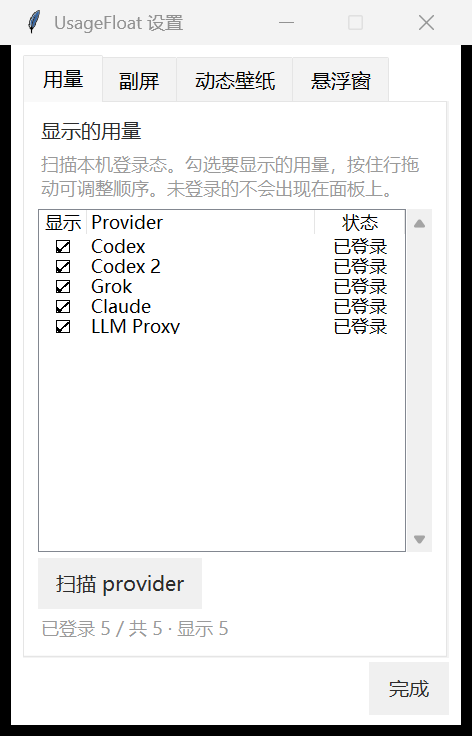
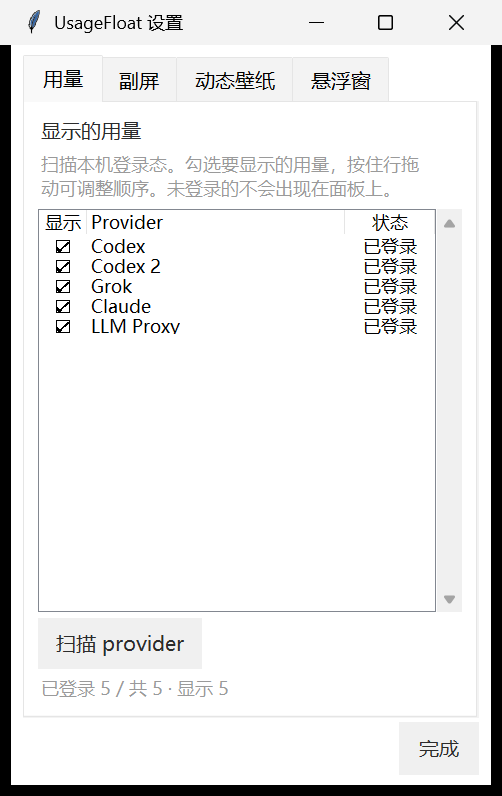
Show LiteLLM budget reset countdown and unclip settings tabs.
llmproxy rows now include a LiteLLM-style monthly reset (1st of
month, overridable). The settings window is taller so 悬浮窗 and
wallpaper controls are no longer cut off at the bottom.

diff --git a/usage_float.py b/usage_float.py
@@ -27,10 +27,11 @@ import urllib.parse
 import urllib.request
 import uuid
 from dataclasses import dataclass, field
-from datetime import datetime, timezone
+from datetime import datetime, timedelta, timezone
 from decimal import Decimal, ROUND_HALF_UP
 from pathlib import Path
 from typing import Any, Callable
+from zoneinfo import ZoneInfo
 
 # ---------------------------------------------------------------------------
 # Paths / constants
@@ -138,6 +139,19 @@ GROK_BILLING_URL = "https://grok.com/grok_api_v2.GrokBuildBilling/GetGrokCredits
 LLM_PROXY_DEFAULT_ENDPOINT = ""
 LLM_PROXY_EMBED_MODEL = "gemini-embedding-2"
 LLM_PROXY_CHAT_FALLBACK_MODEL = "glm-5.3-flash"
+# Virtual keys often cannot call /key/info. LiteLLM 30d/1mo budgets reset on the
+# 1st of the month at midnight in the proxy timezone (UTC unless configured).
+LLM_PROXY_BUDGET_DURATION_DEFAULT = "30d"
+LLM_PROXY_TIMEZONE_DEFAULT = "UTC"
+LLM_PROXY_RESET_HEADERS = (
+    "x-litellm-key-budget-reset-at",
+    "x-litellm-budget-reset-at",
+    "x-litellm-key-reset-at",
+)
+LLM_PROXY_DURATION_HEADERS = (
+    "x-litellm-key-budget-duration",
+    "x-litellm-budget-duration",
+)
 
 REFRESH_SECONDS = 300
 CLAUDE_429_BACKOFF_SECONDS = 900
@@ -2870,6 +2884,163 @@ def parse_llm_proxy_spend_headers(
     return spend, budget, cost
 
 
+def _llm_proxy_zoneinfo(name: str | None) -> timezone | ZoneInfo:
+    text = (name or LLM_PROXY_TIMEZONE_DEFAULT).strip() or LLM_PROXY_TIMEZONE_DEFAULT
+    if text.upper() == "UTC":
+        return timezone.utc
+    try:
+        return ZoneInfo(text)
+    except Exception:
+        return timezone.utc
+
+
+def _normalize_llm_proxy_budget_duration(raw: str | None) -> str:
+    text = (raw or "").strip().lower()
+    aliases = {
+        "hourly": "1h",
+        "daily": "1d",
+        "weekly": "7d",
+        "monthly": "30d",
+        "24h": "1d",
+        "1w": "7d",
+        "1mo": "30d",
+    }
+    return aliases.get(text, text)
+
+
+def _parse_llm_proxy_duration(raw: str | None) -> tuple[int, str] | None:
+    text = _normalize_llm_proxy_budget_duration(raw)
+    if not text:
+        return None
+    index = 0
+    while index < len(text) and text[index].isdigit():
+        index += 1
+    if index == 0 or index == len(text):
+        return None
+    try:
+        value = int(text[:index])
+    except ValueError:
+        return None
+    unit = text[index:]
+    if unit not in {"s", "m", "h", "d", "w", "mo"}:
+        return None
+    return value, unit
+
+
+def next_llm_proxy_budget_reset(
+    duration: str | None,
+    *,
+    now: datetime | None = None,
+    timezone_name: str | None = None,
+) -> datetime | None:
+    """Next LiteLLM-style budget reset (1d midnight, 7d Monday, 30d 1st of month)."""
+    parsed = _parse_llm_proxy_duration(duration)
+    if parsed is None:
+        return None
+    value, unit = parsed
+    tzinfo = _llm_proxy_zoneinfo(timezone_name)
+    current = now or datetime.now(timezone.utc)
+    if current.tzinfo is None:
+        current = current.replace(tzinfo=timezone.utc)
+    current = current.astimezone(tzinfo)
+    midnight = current.replace(hour=0, minute=0, second=0, microsecond=0)
+
+    def at_midnight(moment: datetime) -> datetime:
+        return moment.replace(hour=0, minute=0, second=0, microsecond=0)
+
+    if unit == "d" and value == 1:
+        candidate = midnight
+        return candidate + timedelta(days=1) if candidate <= current else candidate
+    if (unit == "d" and value == 7) or (unit == "w" and value == 1):
+        days_until_monday = (7 - current.weekday()) % 7
+        candidate = midnight + timedelta(days=days_until_monday)
+        return candidate + timedelta(days=7) if candidate <= current else candidate
+    if (unit == "d" and value == 30) or (unit == "mo" and value == 1):
+        candidate = midnight.replace(day=1)
+        if candidate <= current:
+            if candidate.month == 12:
+                candidate = candidate.replace(year=candidate.year + 1, month=1)
+            else:
+                candidate = candidate.replace(month=candidate.month + 1)
+        return candidate
+    if unit == "h":
+        return current.replace(minute=0, second=0, microsecond=0) + timedelta(hours=value)
+    if unit == "m":
+        return current.replace(second=0, microsecond=0) + timedelta(minutes=value)
+    if unit == "s":
+        return current.replace(microsecond=0) + timedelta(seconds=value)
+    if unit == "d":
+        return at_midnight(midnight + timedelta(days=value))
+    if unit == "w":
+        return at_midnight(midnight + timedelta(weeks=value))
+    return None
+
+
+def _parse_llm_proxy_reset_timestamp(raw: str | None) -> str | None:
+    text = (raw or "").strip()
+    if not text:
+        return None
+    try:
+        stamp = float(text)
+        if stamp > 1e12:
+            stamp /= 1000.0
+        if stamp > 1e9:
+            return datetime.fromtimestamp(stamp, tz=timezone.utc).isoformat()
+    except ValueError:
+        pass
+    parsed = parse_iso(text)
+    if parsed is None:
+        return None
+    if parsed.tzinfo is None:
+        parsed = parsed.replace(tzinfo=timezone.utc)
+    return parsed.isoformat()
+
+
+def _llm_proxy_budget_settings() -> tuple[str, str]:
+    duration = str(os.environ.get("LLM_PROXY_BUDGET_DURATION") or "").strip()
+    timezone_name = str(os.environ.get("LLM_PROXY_TIMEZONE") or "").strip()
+    try:
+        if CONFIG_PATH.exists():
+            data = json.loads(CONFIG_PATH.read_text(encoding="utf-8"))
+            if isinstance(data, dict):
+                duration = duration or str(data.get("llm_proxy_budget_duration") or "").strip()
+                timezone_name = timezone_name or str(
+                    data.get("llm_proxy_timezone") or ""
+                ).strip()
+    except Exception:
+        pass
+    return (
+        duration or LLM_PROXY_BUDGET_DURATION_DEFAULT,
+        timezone_name or LLM_PROXY_TIMEZONE_DEFAULT,
+    )
+
+
+def resolve_llm_proxy_resets_at(
+    headers: dict[str, str] | None = None,
+    *,
+    now: datetime | None = None,
+    duration: str | None = None,
+    timezone_name: str | None = None,
+) -> str | None:
+    lowered = {str(k).lower(): str(v) for k, v in (headers or {}).items()}
+    for key in LLM_PROXY_RESET_HEADERS:
+        parsed = _parse_llm_proxy_reset_timestamp(lowered.get(key))
+        if parsed:
+            return parsed
+    header_duration = None
+    for key in LLM_PROXY_DURATION_HEADERS:
+        raw = lowered.get(key)
+        if raw:
+            header_duration = raw
+            break
+    reset = next_llm_proxy_budget_reset(
+        header_duration or duration or LLM_PROXY_BUDGET_DURATION_DEFAULT,
+        now=now,
+        timezone_name=timezone_name,
+    )
+    return reset.isoformat() if reset is not None else None
+
+
 def _round_dollars(value: float) -> int:
     """Half-up dollar rounding (2.5 → 3), not banker's rounding or truncation."""
     return int(Decimal(str(value)).quantize(Decimal("1"), rounding=ROUND_HALF_UP))
@@ -2924,6 +3095,7 @@ def fetch_llmproxy_usage() -> ProviderUsage:
     )
     spend: float | None = None
     budget: float | None = None
+    headers: dict[str, str] = {}
     for kind, model in probes:
         status, headers = _llm_proxy_probe(base, key, model=model, kind=kind)
         if status != 200:
@@ -2943,11 +3115,28 @@ def fetch_llmproxy_usage() -> ProviderUsage:
             error="更新失败",
         )
 
+    duration, timezone_name = _llm_proxy_budget_settings()
+    resets_at = resolve_llm_proxy_resets_at(
+        headers,
+        duration=duration,
+        timezone_name=timezone_name,
+    )
+
     if budget is None or budget <= 0:
         result = ProviderUsage(
             provider_id="llmproxy",
             display_name="llmproxy",
             summary=format_llm_proxy_spend(spend),
+            windows=[
+                UsageWindow(
+                    id="spend",
+                    label="额度",
+                    used_pct=0.0,
+                    resets_at=resets_at,
+                )
+            ]
+            if resets_at
+            else [],
             available=True,
             fetched_at=datetime.now(timezone.utc).isoformat(),
         )
@@ -2965,6 +3154,7 @@ def fetch_llmproxy_usage() -> ProviderUsage:
                 id="spend",
                 label="额度",
                 used_pct=used_pct,
+                resets_at=resets_at,
             )
         ],
         available=True,
@@ -5602,7 +5792,8 @@ def run_ui() -> None:
         state["settings_win"] = win
         win.title("UsageFloat 设置")
         win.configure(bg=BG)
-        win.resizable(False, False)
+        win.resizable(True, True)
+        win.minsize(460, 620)
         # This stays a normal independent window on the primary display. Setting
         # topmost/transient before its first map makes Tk recreate the native
         # wrapper across two DPI contexts; that loses the first menu invocation
@@ -5621,7 +5812,7 @@ def run_ui() -> None:
             )
         except Exception:
             pass
-        notebook = ttk.Notebook(shell, style="UsageFloat.TNotebook", width=430, height=445)
+        notebook = ttk.Notebook(shell, style="UsageFloat.TNotebook", width=450, height=580)
         notebook.pack(fill="both", expand=True)
         providers_tab = tk.Frame(notebook, bg=BG)
         display_tab = tk.Frame(notebook, bg=BG)
@@ -5641,10 +5832,8 @@ def run_ui() -> None:
         wallpaper_notebook = ttk.Notebook(
             wallpaper_tab,
             style="UsageFloat.TNotebook",
-            width=402,
-            height=402,
         )
-        wallpaper_notebook.pack(fill="both", expand=True, padx=10, pady=10)
+        wallpaper_notebook.pack(fill="both", expand=True, padx=10, pady=8)
         directories_tab = tk.Frame(wallpaper_notebook, bg=BG)
         weights_tab = tk.Frame(wallpaper_notebook, bg=BG)
         wallpaper_notebook.add(directories_tab, text="目录")
@@ -5690,7 +5879,7 @@ def run_ui() -> None:
             provider_list_frame,
             columns=("enabled", "name", "status"),
             show="headings",
-            height=9,
+            height=7,
             selectmode="browse",
         )
         provider_tree.heading("enabled", text="显示")
@@ -6766,7 +6955,7 @@ def run_ui() -> None:
             bg=BG,
             font=settings_font_small,
             anchor="w",
-            wraplength=260,
+            wraplength=400,
             justify="left",
         )
         opacity_hint.pack(fill="x", pady=(0, 8))
@@ -6796,7 +6985,7 @@ def run_ui() -> None:
             fg=FG_MUTED,
             bg=BG,
             font=settings_font_small,
-            wraplength=260,
+            wraplength=400,
             justify="left",
             anchor="w",
         ).pack(fill="x", pady=(0, 10))
@@ -7492,7 +7681,7 @@ def run_ui() -> None:
                 walk(win)
                 for notebook in notebooks:
                     notebook.configure(height=520)
-                win.geometry("450x680")
+                win.geometry("480x740")
                 win.update()
                 out_dir = Path(__file__).resolve().parent / "docs" / "screenshots"
                 out_dir.mkdir(parents=True, exist_ok=True)

diff --git a/test_usage_float.py b/test_usage_float.py
@@ -967,6 +967,8 @@ class LlmProxyUsageTests(unittest.TestCase):
             return_value=("sk-test", "https://llm-proxy.example.com/v1"),
         ), patch.object(
             usage_float_module, "_llm_proxy_probe", fake_probe
+        ), patch.object(
+            usage_float_module, "_llm_proxy_budget_settings", return_value=("30d", "UTC")
         ), patch.object(usage_float_module, "cache_put_provider", lambda _p: None):
             usage = usage_float_module.fetch_llmproxy_usage()
 
@@ -974,9 +976,51 @@ class LlmProxyUsageTests(unittest.TestCase):
         self.assertTrue(usage.available)
         self.assertAlmostEqual(usage.windows[0].used_pct, 10.0)
         self.assertEqual(usage.summary, "$20/200")
+        self.assertIsNotNone(usage.windows[0].resets_at)
         rows = iter_display_rows([usage])
         self.assertEqual(rows[0].title, "llmproxy")
         self.assertEqual(rows[0].summary, "$20/200")
+        self.assertIsNotNone(rows[0].resets_at)
+        self.assertTrue(format_remaining(rows[0].resets_at))
+
+    def test_monthly_budget_resets_on_the_first(self) -> None:
+        now = datetime(2026, 9, 17, 12, 0, tzinfo=timezone.utc)
+        reset = usage_float_module.next_llm_proxy_budget_reset(
+            "30d", now=now, timezone_name="UTC"
+        )
+        self.assertEqual(reset, datetime(2026, 10, 1, 0, 0, tzinfo=timezone.utc))
+        on_the_first = usage_float_module.next_llm_proxy_budget_reset(
+            "1mo",
+            now=datetime(2026, 10, 1, 0, 0, tzinfo=timezone.utc),
+            timezone_name="UTC",
+        )
+        self.assertEqual(on_the_first, datetime(2026, 11, 1, 0, 0, tzinfo=timezone.utc))
+
+    def test_daily_and_weekly_budget_resets_align_to_midnight(self) -> None:
+        wednesday = datetime(2026, 9, 16, 15, 30, tzinfo=timezone.utc)
+        self.assertEqual(
+            usage_float_module.next_llm_proxy_budget_reset(
+                "1d", now=wednesday, timezone_name="UTC"
+            ),
+            datetime(2026, 9, 17, 0, 0, tzinfo=timezone.utc),
+        )
+        self.assertEqual(
+            usage_float_module.next_llm_proxy_budget_reset(
+                "7d", now=wednesday, timezone_name="UTC"
+            ),
+            datetime(2026, 9, 21, 0, 0, tzinfo=timezone.utc),
+        )
+
+    def test_header_reset_timestamp_wins_over_duration(self) -> None:
+        iso = usage_float_module.resolve_llm_proxy_resets_at(
+            {"x-litellm-key-budget-reset-at": "2026-10-01T00:00:00Z"},
+            now=datetime(2026, 9, 17, tzinfo=timezone.utc),
+            duration="1d",
+            timezone_name="UTC",
+        )
+        self.assertIsNotNone(iso)
+        parsed = datetime.fromisoformat(str(iso).replace("Z", "+00:00"))
+        self.assertEqual(parsed.date(), datetime(2026, 10, 1).date())
 
 
 class ProviderConfigTests(unittest.TestCase):

diff --git a/README.md b/README.md
@@ -116,7 +116,7 @@ python usage_float.py autostart on  # 开机自启
 - `x-litellm-key-spend`
 - `x-litellm-key-max-budget`
 
-面板显示 `$已用/$额度`。没配 key 就不显示这一行。探测模型可用环境变量覆盖。
+面板显示 `$已用/$额度` 和重置倒计时。虚拟 key 通常读不到 `/key/info`，倒计时按 LiteLLM 的月度规则（每月 1 日 0:00，默认 UTC）。可用 `LLM_PROXY_BUDGET_DURATION` / `LLM_PROXY_TIMEZONE`，或配置里的 `llm_proxy_budget_duration` / `llm_proxy_timezone` 覆盖。没配 key 就不显示这一行。
 
 ## 配置
 
@@ -135,7 +135,9 @@ python usage_float.py autostart on  # 开机自启
   "wallpaper_image_seconds": 10,
   "wallpaper_audio": true,
   "llm_proxy_api_key": "",
-  "llm_proxy_endpoint": ""
+  "llm_proxy_endpoint": "",
+  "llm_proxy_budget_duration": "30d",
+  "llm_proxy_timezone": "UTC"
 }
 ```
 
